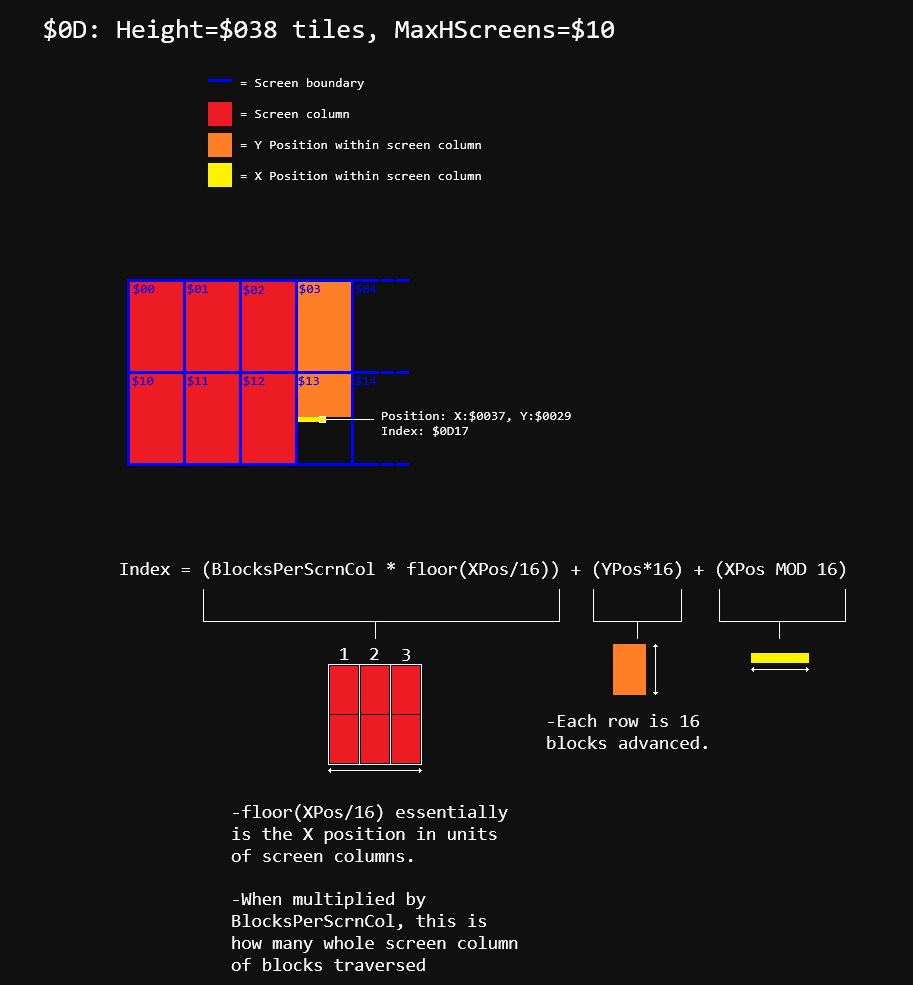
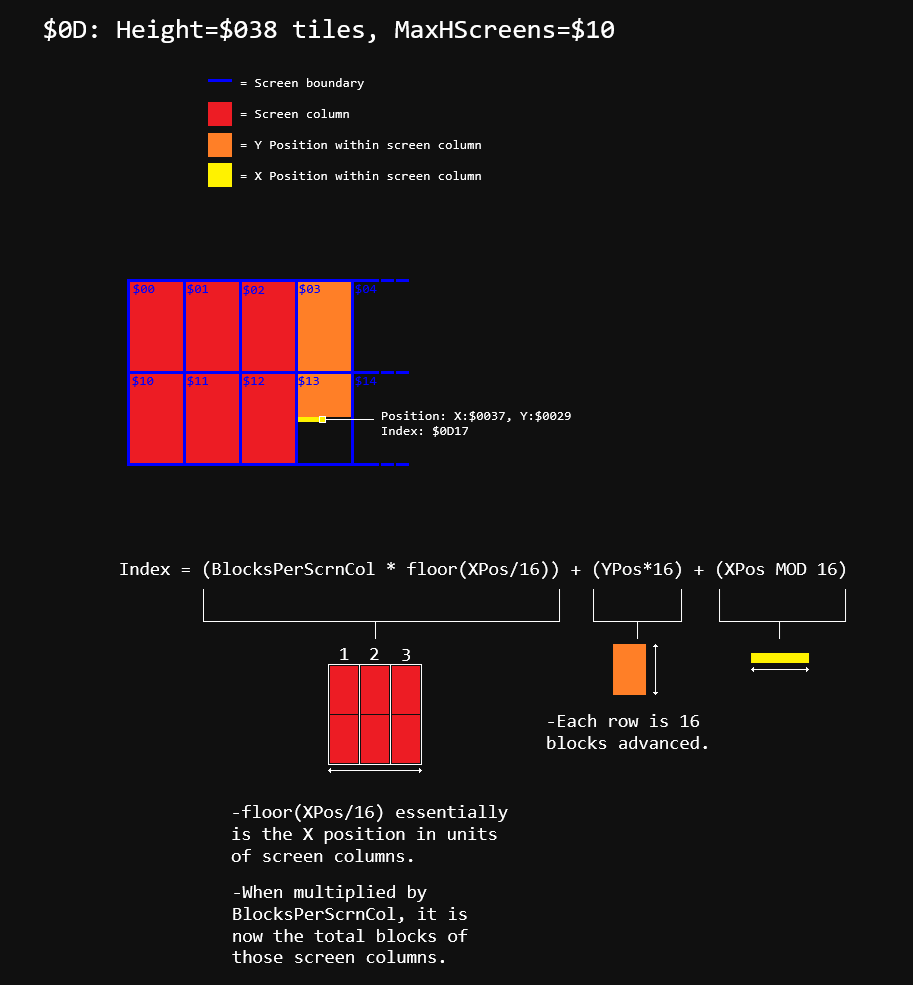
update

Changed region(s): [[0.2453, 0.8832, 0.552, 1.0]]

diff --git a/C800DataFormatExplained.html b/C800DataFormatExplained.html
@@ -69,8 +69,7 @@
 <p>Because the 2 lower bytes (low word, or &ldquo;page&rdquo;) of the 24-bit (3-bit) address are the same on different banks (leftmost byte of the 3-byte), I'll be referring the blocks by their page.</p>
 
 <p>When a block is in a level, its map16 number, which each being 2 bytes long, are written on both banks on the same page, with the low byte on the lower bank value ($7E/$40) and the high byte in the higher bank value ($7F/$41). For example a cement block, which is tile <kbd>$<span style="color: #ff0000">01</span><span style="color: #0000ff">30</span></kbd>, placed at the top-left of the level, which is <kbd>X: $0000, Y: $0000</kbd> in block units (not pixels),
-would mean <kbd>$7E/40:C800: $<span style="color: #ff0000">30</span></kbd> and <kbd>$7F/41:C800: $<span style="color: #0000ff">01</span></kbd>. Each byte on both banks correspond to a block, using the same example but at <kbd>X: $0001, Y: $0000</kbd> would cause the cement block to to be written to <kbd>$C801</kbd> of both banks instead.
-Therefore they correspond:
+would mean <kbd>$7E/40:C800: $<span style="color: #0000ff">30</span></kbd> and <kbd>$7F/41:C800: $<span style="color: #ff0000">01</span></kbd>. Each byte on both banks correspond to a block, using the same example but at <kbd>X: $0001, Y: $0000</kbd> would cause the cement block to to be written to <kbd>$C801</kbd> of both banks instead. Here is what it looks like:
 <table>
 	<tr>
 		<th></th>
@@ -101,7 +100,7 @@ Therefore they correspond:
 
 <p>Now you may be wondering, how are the blocks being placed in a two-dimensional array when their data is stored in a linear array? Well, SMW, and by extension, Lunar Magic utilizes a combination of
 <a href="https://en.wikipedia.org/wiki/Row-_and_column-major_order">row and column-major</a> <a href="https://en.wikipedia.org/wiki/Array_(data_type)#Multi-dimensional_arrays">multidimensional array</a>. The format stored in the RAM
-differs depending on horizontal level and vertical level. Since LM added custom horizontal level dimensions, that also differs the layout of the blocks.</p>
+differs depending on horizontal level and vertical level. Since LM added custom horizontal level dimensions, that also differs the layout of the blocks (primarily due to the blocks per screen column).</p>
 <p>Notes:
 	<ul>
 		<li>Coordinates discussed here are in units of blocks, not pixels. To convert pixel coordinates to block coordinates, do <span class="MathFormula">BlockXPos = floor(PixelXPos/16)</span> and <span class="MathFormula">BlockYPos = floor(PixelYPos/16)</span>. <a href="https://en.wikipedia.org/wiki/Floor_and_ceiling_functions"><kbd>floor()</kbd></a> is a function
@@ -118,7 +117,7 @@ differs depending on horizontal level and vertical level. Since LM added custom 
 <h1><a id="TOC_Horizontal_level_block_format" href="#TOCBack_Horizontal_level_block_format">^</a>Horizontal level block format</h1>
 <div class="Indent">
 	<p>In horizontal levels, the grid of blocks are divided by 16-block wide &ldquo;screen columns&rdquo;, then subdivided those screen columns into many rows of 16x1 block groups.</p>
-	<p>Let's start with the smallest unit of chunking first, the blocks are ordered like a newspaper:
+	<p>Let's start with the smallest unit of chunking first, the blocks are ordered like a newspaper text:
 	<img src="Readme_files/SMW_RowMajorBlocksPerScreen.png">
 	</p>
 	
@@ -136,7 +135,7 @@ differs depending on horizontal level and vertical level. Since LM added custom 
 		<p>Formula in text form:
 			<ul>
 				<li>Obtain Index: <span class="MathFormula">Index = (BlocksPerScrnCol * floor(XPos/16)) + (YPos*16) + (XPos MOD 16)</span></li>
-				<li>Obtain X and Y positions (lots of <a href="https://en.wikipedia.org/wiki/Euclidean_division">euclidean division</a> being used):
+				<li>Obtain X and Y positions (<a href="https://en.wikipedia.org/wiki/Euclidean_division">euclidean division</a> frequently used here):
 					<ul>
 						<li class="MathFormula">XPos = (floor(BlockIndex/BlocksPerScreenColumn)*16) + (Index MOD 16)</li>
 						<li class="MathFormula">YPos = floor((BlockIndex MOD BlocksPerScreenColumn)/16)</li>
@@ -147,7 +146,7 @@ differs depending on horizontal level and vertical level. Since LM added custom 
 			<ul>
 				<li>
 					RAM <kbd><a href="https://smwc.me/m/smw/ram/7E13D7">$13D7 ($73D7 in SA-1)</a></kbd> is the level height in pixels, but because every screen column in horizontal levels are always 16 blocks wide, and that blocks are always 16 pixels high,
-					this is also the number of blocks per screen column (we do this: <span class="MathFormula">LevelHeightInBlocks = LevelHeightInPixels / 16 pixels per block</span> &rarr; <span class="MathFormula">BlocksPerScreenColumn = LevelHeightInBlocks * 16</span>, resulting in dividing by 16, then multiplying back up by 16).
+					this is also the number of blocks per screen column (we do this: <span class="MathFormula">LevelHeightInBlocks = LevelHeightInPixels / 16 pixels per block</span> &rarr; <span class="MathFormula">BlocksPerScreenColumn = LevelHeightInBlocks * 16 across each screen</span>, resulting in dividing by 16, then multiplying back up by 16).
 				</li>
 				<li>
 					<kbd>Mod</kbd> is the modulo operator, the remainder of dividing two numbers. For example: <span class="MathFormula">18/16</span>, in <a href="https://en.wikipedia.org/wiki/Euclidean_division">Euclidean Division</a>, is <span class="MathFormula">quotient = 1, remainder = 2</span>. therefore
@@ -170,7 +169,7 @@ differs depending on horizontal level and vertical level. Since LM added custom 
 		<img src="Readme_files/ComputationVertLevel.png">
 	
 		<p>Similar to horizontal levels, but because there are no dimension settings for vertical levels, the task is much easier, and even more so thanks to the fact that each screen's width and height and the number of blocks are all powers of 2, making easy use of bitwise operations (just re-arrange the sequence of bits).
-		In fact, the index in binary is %00YYYYYXyyyyxxxx, where uppercase X and Y represents what screen boundary and what halves (X = 0 for left and 1 for right) within a screen boundary.</p>
+		In fact, the index in binary is <kbd>%00YYYYYXyyyyxxxx</kbd>, where uppercase X and Y represents what screen boundary and what halves (X = 0 for left and 1 for right) within a screen boundary.</p>
 		<p>Formulas:
 		<ul>
 			<li>To calculate index: <span class="MathFormula">Index = (512 * floor(YPos/16)) + (256 * floor(XPos/16)) + ((YPos MOD 16)*16) + (XPos MOD 16)</span></li>
@@ -228,7 +227,7 @@ differs depending on horizontal level and vertical level. Since LM added custom 
 		
 		<p>Therefore, this &ldquo;out of bounds&rdquo; detection for the rightmost or bottomost uses the border where the screen scroll ends
 		at, not where the level's full dimension ends at. This is set by LM's &ldquo;Number of Screens&rdquo; in &ldquo;Change Properties in Header&rdquo; dialog (don't forget to uncheck the
-		&ldquo;Auto-Set Number of Screens&rdquo; in the &ldquo;General Options&rdquo; if you need to change that). The C800 calculator JavaScript HTML file will always assume the full width and height on determining what RAM is used or not.</p>
+		&ldquo;Auto-Set Number of Screens&rdquo; in the &ldquo;General Options&rdquo; if you need to change that). The $C800 calculator JavaScript HTML file will always assume the full width and height on determining what RAM is used or not.</p>
 	</li>
 	
 	<li><p>Thankfully, during block interaction (including during custom block code), <kbd>$98</kbd>-<kbd>$9B</kbd> (scratch RAM <kbd>$0A</kbd>-<kbd>$0D</kbd> for sprites after executing <kbd>$019138</kbd>) while processing layer 2 (RAM <a href="https://smwc.me/m/smw/ram/7E1933"><kbd>$1933</kbd></a> set to <kbd>#$01</kbd>),
